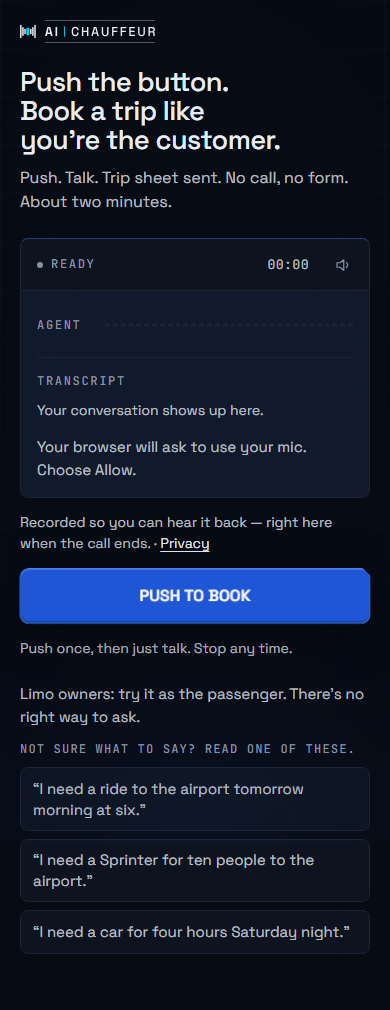
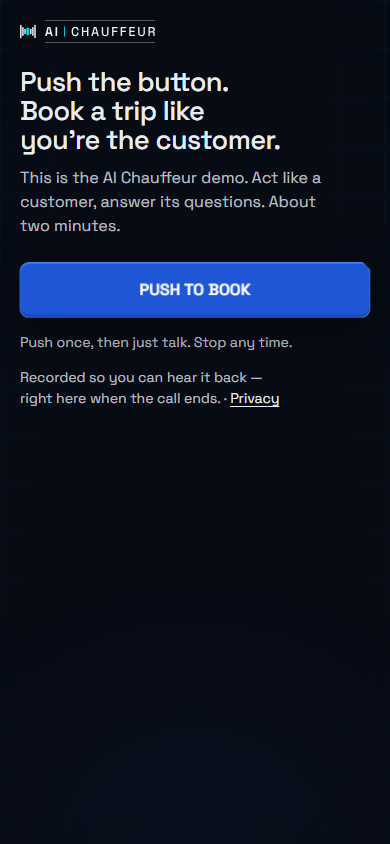
AIC /try v4.1 SIMPLIFY: five things at rest, the panel waits for the push
Shane's iPhone verdict on v4: the call worked, the page was too busy. This run
removes. At rest the page is the wordmark, the headline, one sub-line, the
button, the recording line, and the one small line under the button.

REMOVED, markup + CSS + JS: the three read-only chips, "Not sure what to say?
Read one of these.", and "Limo owners: try it as the passenger." The served
source carries none of those strings, none of the class names, and no
try_chip_read event.

HIDDEN UNTIL THE PUSH: the status panel (READY, timer, mute, AGENT meter,
TRANSCRIPT, the empty line). It now sits UNDER the button and unfolds in 240ms,
opacity + transform only, off under reduced motion. The mic hint is said only in
CONNECTING. After the call, and on a second push, nothing changed from v4.

NEW SUB-LINE: "This is the AI Chauffeur demo. Act like a customer, answer its
questions. About two minutes."

DESKTOP: the two-column grid is gone. One centred column, 720px at most.

ONE NUMBER MOVED, AND IT WAS A DEFECT. Focus mode dimmed the surround to .62 on a
computed 4.51:1. The rendered-pixel probe reads .62 at 4.46:1 for --ink-soft,
under the AA floor, on every call v4 has served. .63 is the lowest step that
clears it (4.57:1). The v4 gate only ever read the computed opacity, never the
contrast in that state; it does now.

GATE (local, ALL CHECKS PASS; negative control first):
  320/390/430/1440 - no overflow, AA on every node, exactly the five + small line
[…]

diff --git a/chauffeur/try/index.html b/chauffeur/try/index.html
@@ -50,44 +50,26 @@
     .try-brand{display:inline-flex;align-self:flex-start;border-radius:4px}
     .try-brand img{display:block;width:135px;height:auto}
     .try a:focus-visible,.try button:focus-visible{outline:2px solid var(--signal-blue);outline-offset:3px}
-    /* THE ORDER ON A PHONE IS NOT THE ORDER ON A DESK.
-       Measured at 390x844 with the prompts in the reading column, the button
-       landed at 911px — off the first screen, which is the one number this page
-       cannot get wrong. The prompts move under the action instead. They lose
-       nothing by it: they are what you read WHILE the call runs, not before you
-       push, and the push is what the fold is for. At 1024 the second column
-       exists and they go back beside the headline where they were written. */
-    .try-grid{display:grid;gap:1.5rem;align-content:start}
-    .try-tell{display:flex;flex-direction:column;gap:.75rem;order:1}
-    .try-act{order:2}
-    .try-prompts{order:3}
+    /* ONE COLUMN AT EVERY WIDTH. At rest the page is five things — the mark,
+       the headline, one sub-line, the button, the recording line — plus the one
+       small line under the button. Everything else waits for the push. */
+    .try-grid{display:flex;flex-direction:column;gap:1.5rem}
+    .try-tell{display:flex;flex-direction:column;gap:.75rem}
     .try-h{margin:0;max-width:20ch;font-family:var(--sans);font-weight:500;
       font-size:clamp(1.6875rem,1.15rem + 2.2vw,3.25rem);line-height:1.08;
       letter-spacing:-.02em;color:var(--ink);text-wrap:balance}
-    .try-sub{margin:0;max-width:34ch;font-family:var(--sans);font-size:1rem;
+    .try-sub{margin:0;max-width:40ch;font-family:var(--sans);font-size:1rem;
       line-height:1.5;color:var(--ink-soft);text-wrap:pretty}
-
-    /* THE PROMPTS. Read-only: a chip is something to say out loud, not a
-       control that starts anything. It is still a <button> because it takes a
-       tap and a keyboard, and the tap marks the one you are reading. */
-    .try-prompts{display:flex;flex-direction:column;gap:.5rem}
-    .try-role{margin:0;max-width:40ch;font-family:var(--sans);font-size:.9375rem;
-      line-height:1.5;color:var(--ink-soft);text-wrap:pretty}
-    .try-cl{margin:.25rem 0 0;font-family:var(--mono);font-size:.75rem;font-weight:500;
-      letter-spacing:.1em;text-transform:uppercase;color:var(--neutral)}
-    .try-chips{list-style:none;display:flex;flex-wrap:wrap;gap:.5rem;margin:0;padding:0}
-    .try-chips li{display:flex;flex:1 1 100%}
-    .try-chip{flex:1;min-height:44px;padding:.6rem .75rem;text-align:left;cursor:pointer;
-      background:var(--surface);border:1px solid var(--line);border-radius:8px;
-      font-family:var(--sans);font-size:.9375rem;line-height:1.4;color:var(--ink-soft);
-      transition:border-color .16s,color .16s}
-    .try-chip:hover{border-color:var(--sky);color:var(--ink)}
-    .try-chip[data-read="true"]{border-color:var(--line-hot);color:var(--ink)}
 
     .try-act{display:flex;flex-direction:column;gap:.875rem;width:100%;max-width:30rem}
 
+    /* THE PANEL IS NOT THERE UNTIL YOU PUSH. It unfolds under the button in
+       240ms — opacity and transform only, so nothing below it is animated into
+       place and the button the finger just left does not move. */
     .try-panel{background:var(--surface);border:1px solid var(--line);
       border-top:1px solid var(--line-hot);border-radius:8px}
+    .try-panel:not([hidden]){animation:try-unfold .24s ease-out both}
+    @keyframes try-unfold{from{opacity:0;transform:translateY(-8px)}to{opacity:1;transform:none}}
     .try-head{display:flex;align-items:center;gap:.75rem;
       min-height:52px;padding:0 .25rem 0 1rem;border-bottom:1px solid var(--line)}
     /* STATE LAW: the dot and the word are one element and the colour never
@@ -149,7 +131,7 @@
       line-height:1.55;color:var(--ink-soft);text-wrap:pretty}
     .try-note a,.try-rec a,.try-alt a{color:var(--ink);text-decoration:underline;
       text-underline-offset:.18em;text-decoration-thickness:1px}
-    .try-rec{margin:0;font-family:var(--sans);font-size:.875rem;line-height:1.5;color:var(--ink-soft)}
+    .try-rec{margin:0;font-family:var(--sans);font-size:.875rem;line-height:1.5;color:var(--ink-soft);text-wrap:balance}
     /* The separator travels with the word it separates. At 1440 the line broke
        between them and left "·" starting a line on its own. CSS line-breaking,
        not a hard space: a non-breaking space survives a copy-paste into a CRM
@@ -212,36 +194,29 @@
     .try-inapp .try-copied{margin-top:.5rem}
 
     /* FOCUS MODE. During a call everything that is not the instrument steps
-       back. IT STEPS BACK TO .62 AND NOT TO .35, and the number is measured
+       back. IT STEPS BACK TO .63 AND NOT TO .35, and the number is measured
        rather than chosen: ancestor opacity multiplies into rendered contrast,
-       and --ink-soft at .35 lands at 2.17:1 on this ground. The chips are in
-       this group and reading them mid-call is their whole job, so a dim that
-       makes them the least legible thing on the page defeats itself. At .62
-       --ink-soft holds 4.51:1 and --ink holds 6.35:1 — both over the AA floor,
-       and the panel still separates because it keeps its own surface, its
-       hairline and 100%. */
-    .try-tell,.try-prompts,.try-rec,.try-hint,.try-brand{transition:opacity .3s ease}
+       and --ink-soft at .35 lands at 2.17:1 on this ground, and the sub-line,
+       the recording line and the hint are --ink-soft. v4 shipped .62 on a
+       computed 4.51:1; the rendered-pixel probe reads .62 at 4.46:1, under the
+       floor. .63 is the lowest step that clears it: 4.57:1. The panel still
+       separates because it keeps its own surface, its hairline and 100%. */
+    .try-tell,.try-rec,.try-hint,.try-brand{transition:opacity .3s ease}
     .try[data-focus="true"] .try-tell,
-    .try[data-focus="true"] .try-prompts,
     .try[data-focus="true"] .try-rec,
     .try[data-focus="true"] .try-hint,
-    .try[data-focus="true"] .try-brand{opacity:.62}
+    .try[data-focus="true"] .try-brand{opacity:.63}
 
     @media (prefers-reduced-motion:reduce){
       .try[data-state="ready"] .try-push{animation:none}
-      .try-tell,.try-prompts,.try-rec,.try-hint,.try-brand{transition:none}
-      .try-chip{transition:none}
+      .try-panel:not([hidden]){animation:none}
+      .try-tell,.try-rec,.try-hint,.try-brand{transition:none}
     }
 
+    /* DESKTOP IS THE SAME PAGE, CENTRED. One column, 720px wide at most. */
     @media (min-width:1024px){
-      .try-wrap{padding:2rem 1.5rem 3rem;gap:2rem}
-      .try-grid{flex:1;grid-template-columns:minmax(0,1fr) minmax(0,28rem);
-        grid-template-areas:"tell act" "prompts act";
-        grid-template-rows:auto 1fr;
-        gap:1.5rem 4rem;align-content:center}
-      .try-tell{grid-area:tell;gap:1rem;align-self:end}
-      .try-prompts{grid-area:prompts;align-self:start}
-      .try-act{grid-area:act;align-self:center}
+      .try-wrap{max-width:720px;padding:3rem 1.5rem;gap:2rem}
+      .try-tell{gap:1rem}
       .try-turns{max-height:13rem}
     }
   </style>
@@ -255,17 +230,7 @@
     <div class="try-grid">
       <div class="try-tell">
         <h1 class="try-h">Push the button. Book a trip like you're the customer.</h1>
-        <p class="try-sub">Push. Talk. Trip sheet sent. No call, no form. About two minutes.</p>
-      </div>
-
-      <div class="try-prompts">
-          <p class="try-role">Limo owners: try it as the passenger. There's no right way to ask.</p>
-          <p class="try-cl" id="try-cl">Not sure what to say? Read one of these.</p>
-          <ul class="try-chips" aria-labelledby="try-cl">
-            <li><button type="button" class="try-chip" data-event="try_chip_read">&ldquo;I need a ride to the airport tomorrow morning at six.&rdquo;</button></li>
-            <li><button type="button" class="try-chip" data-event="try_chip_read">&ldquo;I need a Sprinter for ten people to the airport.&rdquo;</button></li>
-            <li><button type="button" class="try-chip" data-event="try_chip_read">&ldquo;I need a car for four hours Saturday night.&rdquo;</button></li>
-          </ul>
+        <p class="try-sub">This is the AI Chauffeur demo. Act like a customer, answer its questions. About two minutes.</p>
       </div>
 
       <div class="try-act">
@@ -276,7 +241,13 @@
           <p class="try-copied" id="try-copied" aria-live="polite"></p>
         </div>
 
-        <div class="try-panel" role="group" aria-label="Call status">
+        <div class="try-push">
+          <button type="button" class="btn btn-primary try-btn" id="try-btn" data-event="try_call_start">PUSH TO BOOK</button>
+          <input class="try-haptic" id="try-haptic" type="checkbox" switch tabindex="-1" aria-hidden="true">
+        </div>
+        <p class="try-hint">Push once, then just talk. Stop any time.</p>
+
+        <div class="try-panel" id="try-panel" role="group" aria-label="Call status" hidden>
           <div class="try-head">
             <span class="try-tag" id="try-tag" data-state="ready">Ready</span>
             <span class="try-time" id="try-time" aria-hidden="true">00:00</span>
@@ -294,17 +265,12 @@
               <ol class="try-turns" id="try-turns" aria-live="polite" aria-label="Transcript"></ol>
               <p class="try-empty" id="try-empty">Your conversation shows up here.</p>
             </div>
-            <p class="try-note" id="try-note" aria-live="polite">Your browser will ask to use your mic. Choose Allow.</p>
+            <p class="try-note" id="try-note" aria-live="polite"></p>
           </div>
         </div>
 
         <p class="try-rec">Recorded so you can hear it back — right here when the call ends. <span class="try-nb">· <a href="/privacy/">Privacy</a></span></p>
 
-        <div class="try-push">
-          <button type="button" class="btn btn-primary try-btn" id="try-btn" data-event="try_call_start">PUSH TO BOOK</button>
-          <input class="try-haptic" id="try-haptic" type="checkbox" switch tabindex="-1" aria-hidden="true">
-        </div>
-        <p class="try-hint">Push once, then just talk. Stop any time.</p>
         <p class="try-alt" id="try-alt" hidden>Or call the line: <a href="tel:+14147750019" data-event="tel_tap_try">(414) 775-0019</a></p>
 
         <div class="try-result" id="try-result" hidden>
@@ -346,6 +312,7 @@
 
   const $ = (id) => document.getElementById(id);
   const root = document.querySelector('.try');
+  const panel = $('try-panel');
   const tag = $('try-tag'), clock = $('try-time'), note = $('try-note'), btn = $('try-btn'), alt = $('try-alt');
   const turnsEl = $('try-turns'), emptyEl = $('try-empty');
   const result = $('try-result'), building = $('try-building'), ticket = $('try-ticket'),
@@ -356,9 +323,11 @@
 
   const TAG = { ready: 'Ready', connecting: 'Connecting', live: 'Live', ended: 'Ended', failed: 'Not connected' };
   const LABEL = { ready: 'PUSH TO BOOK', connecting: 'Connecting', live: 'End call', ended: 'PUSH TO BOOK', failed: 'PUSH TO BOOK' };
+  // The mic hint is said once, at the only moment it is true: while the browser
+  // is asking. At rest the panel does not exist, so there is nothing to say.
   const NOTE = {
-    ready: 'Your browser will ask to use your mic. Choose Allow.',
-    connecting: 'Connecting you.',
+    ready: '',
+    connecting: 'Your browser will ask to use your mic. Choose Allow.',
     live: "You're live. Say where you're going and when.",
     mic: "We couldn't reach your mic. Call the line instead: " + LINE,
     failed: "The call didn't start. Call the line instead: " + LINE,
@@ -376,6 +345,7 @@
     state = next;
     root.dataset.state = next;
     root.dataset.focus = next === 'connecting' || next === 'live' ? 'true' : 'false';
+    panel.hidden = next === 'ready';
     tag.dataset.state = next;
     tag.textContent = TAG[next];
     note.innerHTML = html;
@@ -829,18 +799,6 @@
   document.addEventListener('pointerdown', () => { if (client) client.startAudioPlayback().catch(() => {}); });
   // Leaving the page hangs up, so an abandoned tab does not keep the line open.
   addEventListener('pagehide', drop);
-
-  // THE CHIPS are read-only. Tapping one marks it and brings it into view; it
-  // never starts a call, and it stays on screen while the call runs.
-  document.querySelectorAll('.try-chip').forEach((chip) => {
-    chip.addEventListener('click', () => {
-      document.querySelectorAll('.try-chip').forEach((c) => { c.dataset.read = c === chip ? 'true' : 'false'; });
-      const r = chip.getBoundingClientRect();
-      if (r.top < 0 || r.bottom > innerHeight) {
-        chip.scrollIntoView({ block: 'nearest', behavior: reduce.matches ? 'auto' : 'smooth' });
-      }
-    });
-  });
 
   // In-app browsers usually block the mic. Check the feature first, then the app.
   if (IN_APP.test(navigator.userAgent || '') || !(navigator.mediaDevices && navigator.mediaDevices.getUserMedia)) {
